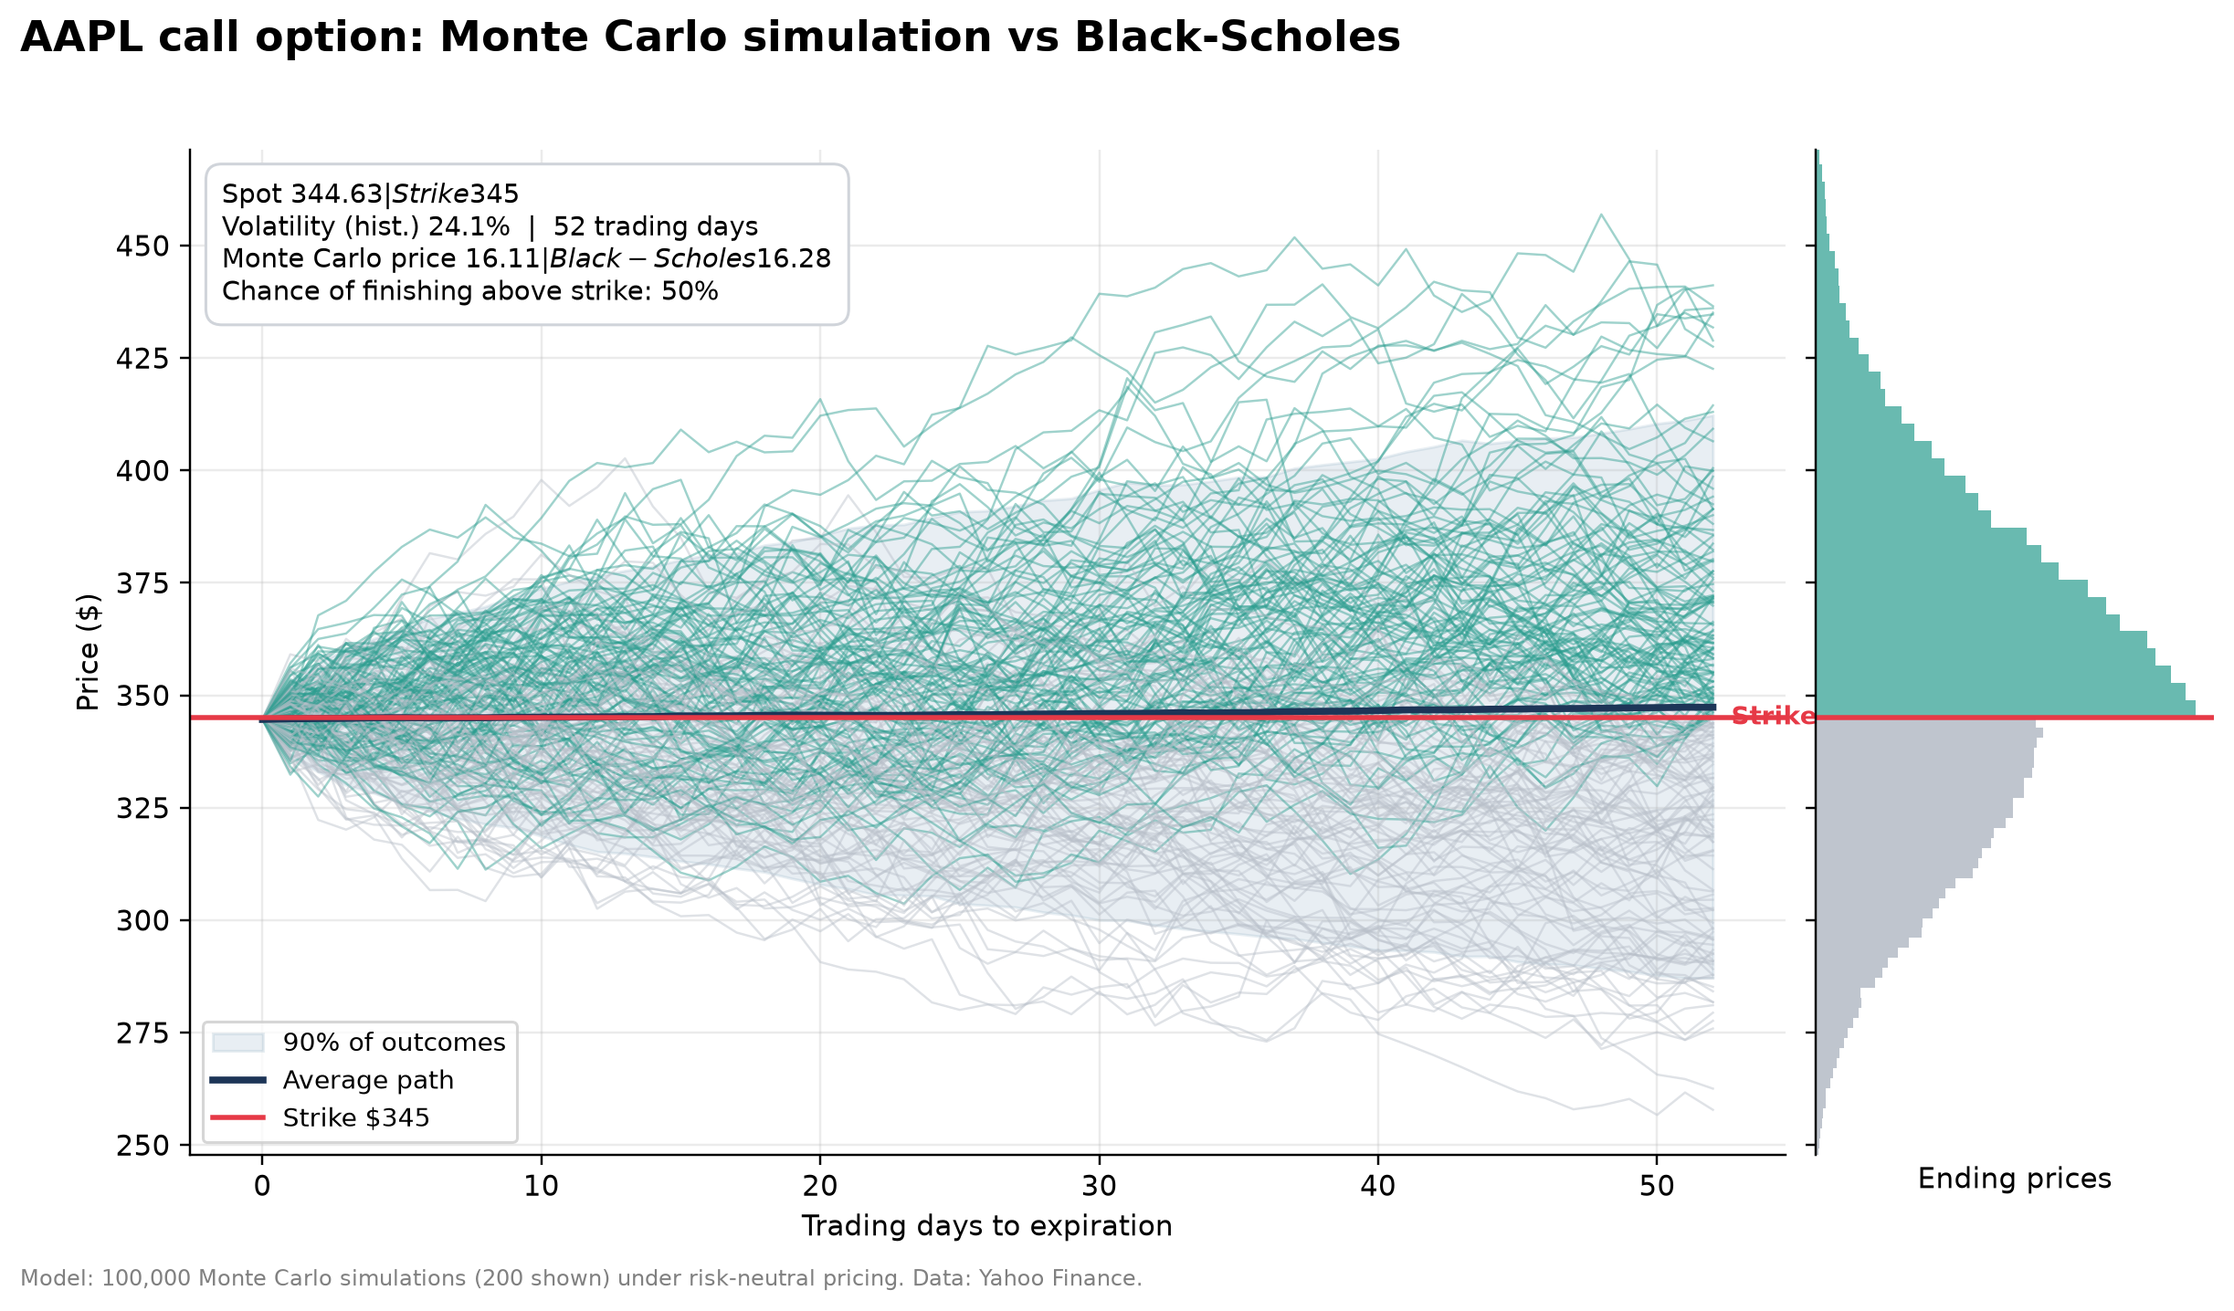
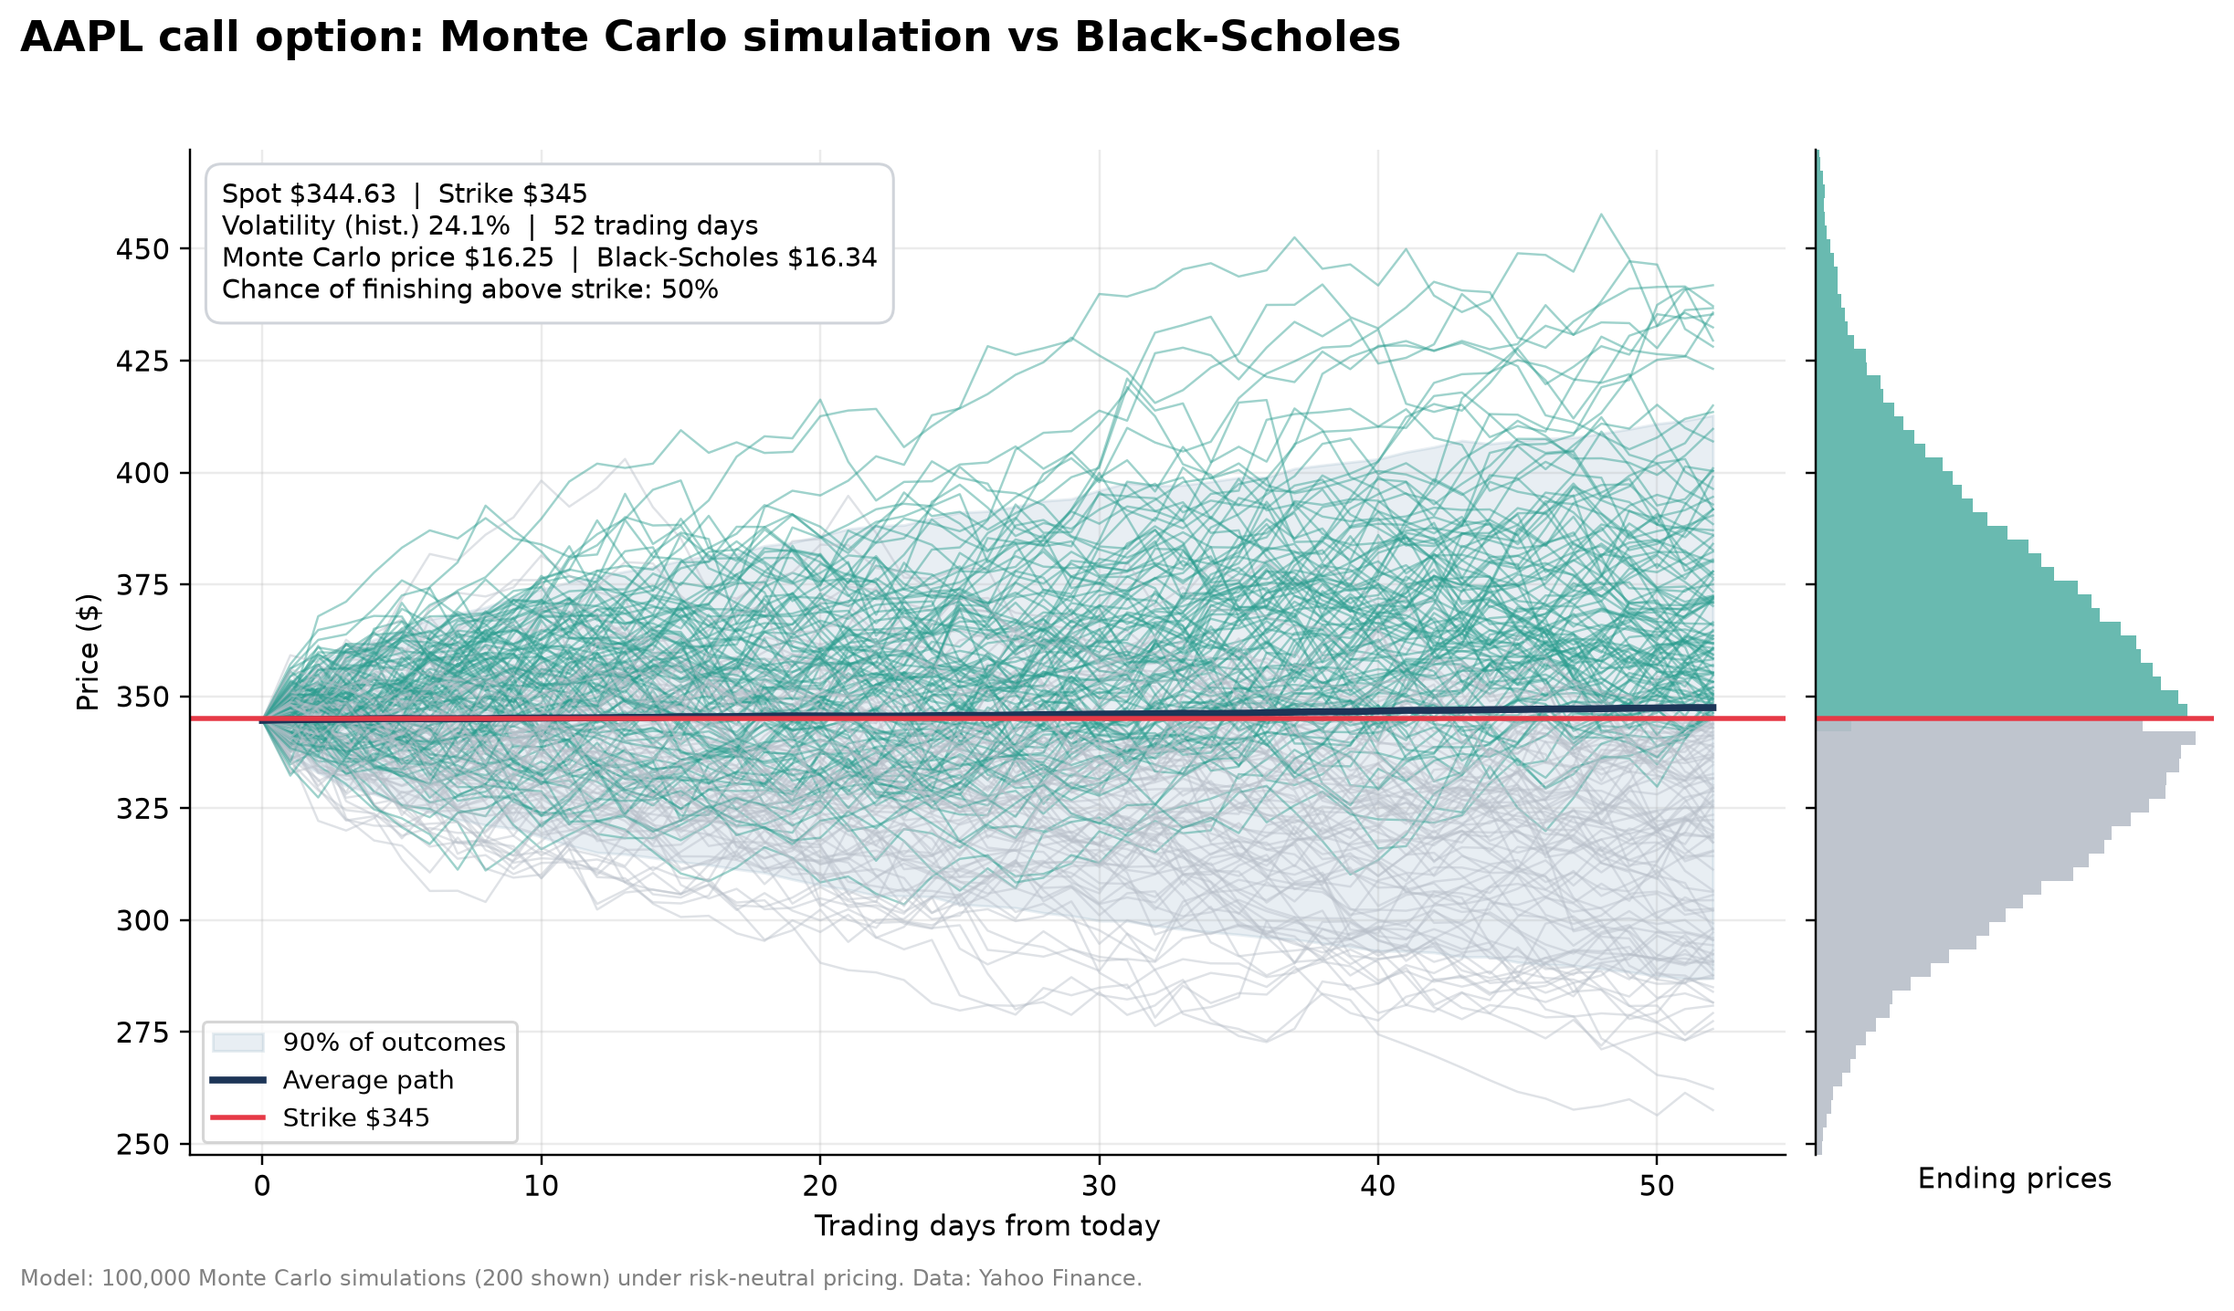
Add files via upload

diff --git a/aapl_paths.py b/aapl_paths.py
@@ -8,22 +8,24 @@ np.random.seed(42)
 # ---------- Inputs ----------
 ticker = "AAPL"
 K = 345
-T = 76 / 365
-r = 0.038         # 3-month Treasury yield
+T = 76 / 365      # 76 days counted from 2026-10-31 (the day after the last close) to the 2027-01-15 expiration
+r = 0.0397        # 3-month Treasury bill rate at the 2026-10-30 close (Yahoo ^IRX)
 expiry = "2027-01-15"
 
 # ---------- Data ----------
-data = yf.download(ticker, period="1y", progress=False)
+# fixed one-year window (the last close is 2026-10-30) so the results can be reproduced
+data = yf.download(ticker, start="2025-10-31", end="2026-10-31", progress=False, auto_adjust=False)
 prices = data["Close"].squeeze()
 daily_returns = prices.pct_change().dropna()
 
 S = float(prices.iloc[-1])
 daily_sigma = float(daily_returns.std())
 annual_sigma = daily_sigma * np.sqrt(252)
-days = int(252 * T)
+days = int(252 * T)   # trading days until expiration
+dt = T / days         # length of each step, so the simulation covers exactly T years
 
 # ---------- Pricing (100,000 simulations) ----------
-all_returns = np.random.normal(r / 252, daily_sigma, size=(100000, days))
+all_returns = np.random.normal(r * dt, annual_sigma * np.sqrt(dt), size=(100000, days))
 ending_all = S * np.prod(1 + all_returns, axis=1)
 mc_call = np.mean(np.maximum(ending_all - K, 0)) / (1 + r) ** T
 prob_above = np.mean(ending_all > K)
@@ -64,7 +66,6 @@ ax.fill_between(x, low, high, color=c_band, alpha=0.12, label="90% of outcomes")
 ax.plot(x, band.mean(axis=0), color=c_avg, linewidth=2.5, label="Average path")
 
 ax.axhline(K, color=c_strike, linestyle="-", linewidth=1.8, label=f"Strike ${K}")
-ax.text(days, K, f"  Strike ${K}", color=c_strike, va="center", fontsize=9, fontweight="bold")
 
 stats = (
     f"Spot ${S:.2f}  |  Strike ${K}\n"
@@ -72,19 +73,20 @@ stats = (
     f"Monte Carlo price ${mc_call:.2f}  |  Black-Scholes ${bs_call:.2f}\n"
     f"Chance of finishing above strike: {prob_above:.0%}"
 )
-ax.text(0.02, 0.97, stats, transform=ax.transAxes, va="top", fontsize=9.5,
+ax.text(0.02, 0.97, stats, transform=ax.transAxes, va="top", fontsize=9.5, parse_math=False,
         bbox=dict(boxstyle="round,pad=0.6", facecolor="white", edgecolor="#d0d4da"))
 
-ax.set_xlabel("Trading days to expiration")
+ax.set_xlabel("Trading days from today")
 ax.set_ylabel("Price ($)")
 ax.legend(loc="lower left", frameon=True, fontsize=9)
 for side in ["top", "right"]:
     ax.spines[side].set_visible(False)
 ax.grid(alpha=0.25)
 
-axh.hist(ending_all[ending_all > K], bins=60, orientation="horizontal",
+bins = np.linspace(ending_all.min(), ending_all.max(), 121)   # same bins for both colors
+axh.hist(ending_all[ending_all > K], bins=bins, orientation="horizontal",
          color=c_above, alpha=0.7)
-axh.hist(ending_all[ending_all <= K], bins=60, orientation="horizontal",
+axh.hist(ending_all[ending_all <= K], bins=bins, orientation="horizontal",
          color=c_below, alpha=0.9)
 axh.axhline(K, color=c_strike, linestyle="-", linewidth=1.8)
 axh.set_xlabel("Ending prices")

diff --git a/MC_realdata.py b/MC_realdata.py
@@ -1,10 +1,13 @@
 import numpy as np
 import yfinance as yf
+from scipy.stats import norm
+from scipy.optimize import brentq
 
 np.random.seed(42)
 
 ticker = "AAPL"
-data = yf.download(ticker, period="1y")
+# fixed one-year window (the last close is 2026-10-30) so the results can be reproduced
+data = yf.download(ticker, start="2025-10-31", end="2026-10-31", auto_adjust=False)
 
 prices = data["Close"].squeeze()
 daily_returns = prices.pct_change().dropna()
@@ -17,11 +20,9 @@ print("Latest price:", round(S, 2))
 print("Daily volatility:", round(daily_sigma, 4))
 print("Annual volatility:", round(annual_sigma, 4))
 
-from scipy.stats import norm
-
 K = 345
-T = 76 / 365
-r = 0.038   # replace with the current 3-month Treasury yield
+T = 76 / 365   # 76 days counted from 2026-10-31 (the day after the last close) to the 2027-01-15 expiration
+r = 0.0397     # 3-month Treasury bill rate at the 2026-10-30 close (Yahoo ^IRX)
 
 d1 = (np.log(S / K) + (r + annual_sigma**2 / 2) * T) / (annual_sigma * np.sqrt(T))
 d2 = d1 - annual_sigma * np.sqrt(T)
@@ -36,31 +37,23 @@ mc_call = np.mean(np.maximum(ending_prices - K, 0)) / (1 + r) ** T
 print("Black-Scholes call:", round(bs_call, 2))
 print("Monte Carlo call:", round(mc_call, 2))
 
-stock = yf.Ticker(ticker)
-print(stock.options)
-
-expiry = "2027-01-15"   # replace with the date you picked
-chain = stock.option_chain(expiry)
-calls = chain.calls
-print(calls[calls["strike"] == 345][["strike", "bid", "ask", "lastPrice", "impliedVolatility"]])
-
-
-from scipy.optimize import brentq
+expiry = "2027-01-15"
+try:
+    calls = yf.Ticker(ticker).option_chain(expiry).calls
+    print("Live quote (for reference; the calculation below uses the saved 2026-10-30 bid/ask):")
+    print(calls[calls["strike"] == K][["strike", "bid", "ask", "lastPrice"]])
+except ValueError:
+    print("The", expiry, "option is no longer listed, so using the saved bid/ask below.")
 
 def bs_call_price(sigma):
     d1 = (np.log(S / K) + (r + sigma**2 / 2) * T) / (sigma * np.sqrt(T))
     d2 = d1 - sigma * np.sqrt(T)
     return S * norm.cdf(d1) - K * np.exp(-r * T) * norm.cdf(d2)
 
-market_price = (17.4 + 18.2) / 2
+market_price = (17.4 + 18.2) / 2   # bid/ask midpoint at the 2026-10-30 close
 
 implied_vol = brentq(lambda sigma: bs_call_price(sigma) - market_price, 0.01, 2.0)
 
-print("Market price:", market_price)
+print("Market price:", round(market_price, 2))
 print("Implied volatility:", round(implied_vol, 4))
 print("Historical volatility:", round(annual_sigma, 4))
-
-
-
-
-

diff --git a/vol_time_grid.py b/vol_time_grid.py
@@ -58,7 +58,7 @@ for ax, T in zip(axes[1], times):
     ax.axhline(S, color=c_start, linestyle="--", linewidth=1)
     spread = paths[:, -1].std()
     time_endings.append(paths[:, -1])
-    ax.set_title(f"σ = 16%, T = {T} years   (spread = {spread:.1f})", fontsize=11)
+    ax.set_title(f"σ = 16%, T = {T} {'year' if T == 1 else 'years'}   (spread = {spread:.1f})", fontsize=11)
     ax.set_ylim(30, 260)
     ax.set_xlabel("Years")
     style(ax)
@@ -75,7 +75,7 @@ style(ax)
 
 ax = axes[2][1]
 for endings, T, c in zip(time_endings, times, c_dist):
-    ax.hist(endings, bins=80, range=(0, 320), density=True, alpha=0.6, color=c, label=f"T = {T} years")
+    ax.hist(endings, bins=80, range=(0, 320), density=True, alpha=0.6, color=c, label=f"T = {T} {'year' if T == 1 else 'years'}")
 ax.set_title("Ending prices, σ = 16%", fontsize=11)
 ax.set_xlabel("Price ($)")
 ax.legend()
@@ -83,13 +83,14 @@ style(ax)
 
 ax = axes[2][2]
 ax.axis("off")
-ax.text(0.02, 0.85, "What this shows", fontsize=13, fontweight="bold", color=c_avg)
+ax.text(0.02, 0.93, "What this shows", fontsize=13, fontweight="bold", color=c_avg)
 ax.text(0.02, 0.15,
         "The spread of outcomes grows roughly with σ × √T.\n\n"
         "• Double the volatility → about double the spread\n"
         "• 16× the time → about 4× the spread (√16 = 4)\n"
         "• Over long periods the spread runs a bit higher,\n"
-        "  because compounding stretches the right tail\n\n"
+        "  because prices drift up with the interest rate\n"
+        "  and compounding stretches the right tail\n\n"
         "A wider spread raises both call and put\n"
         "values, because an option's downside\n"
         "is capped at $0.",

diff --git a/black_scholes.py b/black_scholes.py
@@ -18,3 +18,6 @@ print("Call price:", round(call_price, 2))
 
 put_price = K * np.exp(-r * T) * norm.cdf(-d2) - S * norm.cdf(-d1)
 print("Put price:", round(put_price, 2))
+
+# Put-call parity check: Call - Put should equal S - K * e^(-rT)
+print("Put-call parity:", round(call_price - put_price, 4), "=", round(S - K * np.exp(-r * T), 4))

diff --git a/README.md b/README.md
@@ -12,54 +12,55 @@ A Python project that prices European call and put options two independent ways,
 |---|---|
 | Spot price | $344.63 |
 | Historical volatility (1 year) | 24.1% |
-| Risk-free rate (3-month Treasury) | 3.8% |
-| Black-Scholes price | $16.28 |
-| Monte Carlo price (100,000 simulations) | $16.19 |
+| Risk-free rate (3-month Treasury bill, 2026-10-30) | 4.0% |
+| Black-Scholes price | $16.34 |
+| Monte Carlo price (100,000 simulations) | $16.25 |
 | Market price (bid/ask midpoint) | $17.80 |
-| **Implied volatility** | **26.6%** |
+| **Implied volatility** | **26.5%** |
 
-**Takeaway:** Monte Carlo and Black-Scholes agree to within about 10 cents, which is the normal random noise of 100,000 simulations. The market prices the option higher than the model because it expects Apple to be about **2.5 percentage points more volatile** over the next few months than it was over the past year.
+**Takeaway:** Monte Carlo and Black-Scholes agree to within about 10 cents, which is the normal random noise of 100,000 simulations. The market prices the option higher than the model: it is pricing in about **2.3 percentage points more volatility** over the next few months than Apple had over the past year.
 
-> Note: results depend on the date the data is downloaded and on the risk-free rate used.
+> Note: the scripts use AAPL prices from 2025-10-31 to 2026-10-30 and the option's bid/ask at the 2026-10-30 close, so these results can be reproduced. Results depend on those dates and on the risk-free rate used.
 
 ---
 
 ## What the project does
 
 1. **Simulates stock prices** with random daily returns drawn from a normal distribution
-2. **Measures risk** from the simulated outcomes: chance of loss and Value at Risk (95% and 99%)
-3. **Prices options with Monte Carlo** using risk-neutral pricing: simulate, average the payoffs, discount to today
-4. **Prices options with Black-Scholes** and checks that both methods agree
-5. **Shows convergence:** the Monte Carlo price approaches the Black-Scholes price as simulations increase
-6. **Measures sensitivity** to volatility (vega) and time (theta)
-7. **Applies the model to real data:** downloads AAPL prices, estimates volatility, prices a listed option, and solves for the implied volatility
+2. **Prices options with Monte Carlo** using risk-neutral pricing: simulate, average the payoffs, discount to today
+3. **Prices options with Black-Scholes** and checks that both methods agree
+4. **Shows convergence:** the Monte Carlo price approaches the Black-Scholes price as simulations increase
+5. **Shows how option prices change** with volatility and time (the intuition behind vega and theta)
+6. **Applies the model to real data:** downloads AAPL prices, estimates volatility, prices a listed option, and solves for the implied volatility
 
 ---
 
 ## Charts
 
+The convergence and sensitivity charts use a textbook example: S = $100, K = $110, r = 5%, σ = 2% a day (about 31.7% a year), T = 1 year (Black-Scholes call $10.72, put $15.35).
+
 ### Monte Carlo converges to Black-Scholes
 ![Convergence](convergence.png)
 
-With 100 simulations the price is far off. By 100,000 it matches Black-Scholes. The error shrinks with the square root of the number of simulations.
+With 100 simulations the price is far off. By 100,000 it matches Black-Scholes. The error shrinks with 1/√N: 100 times more simulations gives about 10 times less error.
 
 ### How volatility and time shape outcomes
 ![Volatility and time grid](vol_time_grid.png)
 
-The spread of outcomes grows roughly with **σ × √T**: doubling volatility about doubles the spread, while 16 times the time only about quadruples it. Over long horizons the spread runs a bit higher than σ√T predicts, because compounding stretches the right tail. Distributions skew right because prices can't fall below $0 but have no upper limit.
+The spread of outcomes grows roughly with **σ × √T**: doubling volatility about doubles the spread, while 16 times the time only about quadruples it. Over long horizons the spread runs a bit higher than σ√T predicts, because prices drift up with the interest rate and compounding stretches the right tail. Distributions skew right because prices can't fall below $0 but have no upper limit.
 
 ### Option price vs volatility and time
 ![Volatility sensitivity](volatility.png)
 ![Time sensitivity](time.png)
 
-Both calls and puts gain value as volatility rises, because an option's downside is capped at $0. Calls gain more from extra time than puts do, since a call's upside is unlimited and a put's strike is discounted more over long periods.
+Both calls and puts gain value as volatility rises, because an option's downside is capped at $0. Calls gain more from extra time than puts do because of interest: a longer wait discounts the strike more, which helps the call holder (who pays the strike later) and hurts the put holder (who receives it later).
 
 ---
 
 ## Methods
 
 **Monte Carlo (risk-neutral pricing)**
-- Daily returns ~ Normal(r / 252, σ_daily), where the drift is the risk-free rate
+- Daily returns ~ Normal(r / 252, σ_daily), where the drift is the risk-free rate (for the AAPL option, the 52 trading-day steps are stretched slightly so they span exactly T = 76/365 years)
 - Call payoff = max(S_T − K, 0), put payoff = max(K − S_T, 0)
 - Price = average payoff ÷ (1 + r)^T
 
@@ -82,7 +83,7 @@ Both calls and puts gain value as volatility rises, because an option's downside
 | File | Purpose |
 |---|---|
 | `MC_convergence.py` | Monte Carlo pricing of calls and puts, convergence chart |
-| `black_scholes.py` | Black-Scholes call and put prices |
+| `black_scholes.py` | Black-Scholes call and put prices, put-call parity check |
 | `MC_sensitivity.py` | Price vs volatility and time charts |
 | `vol_time_grid.py` | σ√T grid of paths and distributions |
 | `MC_realdata.py` | AAPL data, real option pricing, market comparison, implied volatility |
@@ -92,8 +93,15 @@ Both calls and puts gain value as volatility rises, because an option's downside
 
 ```
 pip install numpy scipy matplotlib yfinance
-python MC_realdata.py
+python MC_realdata.py      # AAPL data, option pricing, implied volatility
+python aapl_paths.py       # AAPL Monte Carlo chart
+python black_scholes.py    # Black-Scholes example and put-call parity check
+python MC_convergence.py   # convergence chart
+python MC_sensitivity.py   # price vs volatility and time charts
+python vol_time_grid.py    # volatility/time grid
 ```
+
+Each chart script saves its PNG and opens a chart window; close the window to finish.
 
 ---
 
@@ -110,10 +118,10 @@ python MC_realdata.py
 
 I started this project without much of a math background. The first thing I simulated was a die: 10 rolls gave an average of 3.8, and 100,000 rolls gave 3.50. That was the moment Monte Carlo made sense to me. Each single outcome is random, but run enough of them and the average lands on the true value.
 
-From there I simulated a stock. The way I think about it is a boat on a river: the drift is the current, a slow steady push in one direction, and volatility is the waves, big and random. Over a single day the waves dominate, but over years the current catches up, because the waves partly cancel out and only grow with the square root of time. That one idea ended up explaining most of the project, from why VaR grows with the time horizon to why the spread of outcomes grows with σ√T.
+From there I simulated a stock. The way I think about it is a boat on a river: the drift is the current, a slow steady push in one direction, and volatility is the waves, big and random. Over a single day the waves dominate, but over years the current catches up, because the waves partly cancel out and only grow with the square root of time. That one idea ended up explaining most of the project, especially why the spread of outcomes grows with σ√T.
 
 A few things surprised me:
-- My simulated stock had a positive average return, yet about 40% of simulated years still ended in a loss. The average was pulled up by a small number of huge winners. That showed me why you look at the whole distribution, not just the average.
+- In an early practice simulation (not included here), my simulated stock had a positive average return, yet about 40% of simulated years still ended in a loss. The average was pulled up by a small number of huge winners. That showed me why you look at the whole distribution, not just the average.
 - Options get more valuable when volatility rises, both calls and puts. It clicked once I realized an option's downside is capped at zero, so bigger waves only add upside.
 - I had to learn logs and e from scratch to work through Black-Scholes by hand. Calculating d₁ and d₂ myself and then seeing my Monte Carlo price converge to the same number was the most satisfying part of the project.
 
